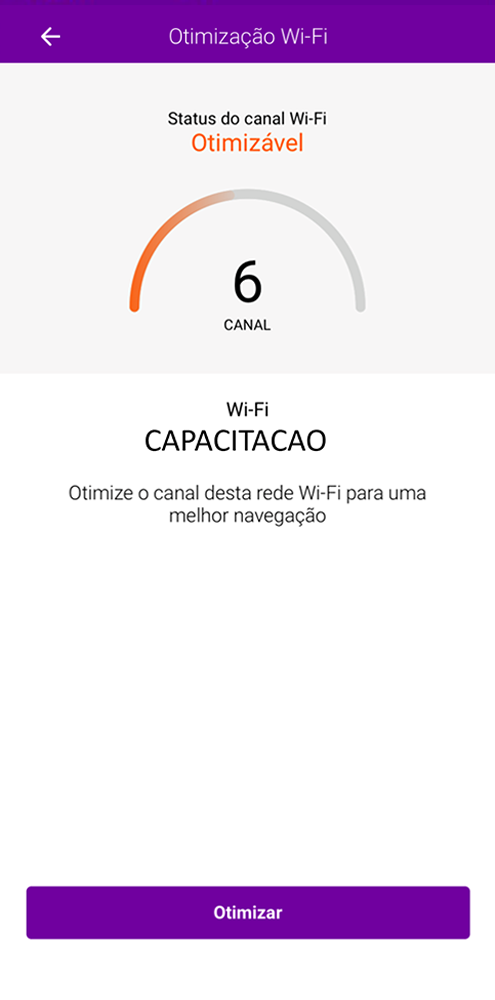
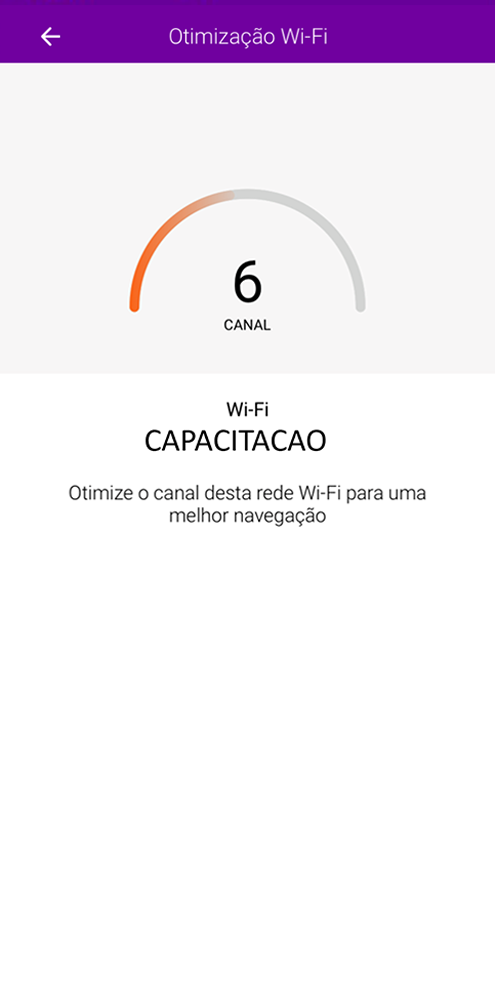
commit ajustes telas 104 à 108.

Changed region(s): [[0.0303, 0.868, 0.9697, 0.961], [0.3333, 0.093, 0.6667, 0.155]]

diff --git a/course/screens/104/tela.js b/course/screens/104/tela.js
@@ -4,11 +4,11 @@ function init() {
   let balao = document.querySelector(".balao.b0");
   let btFecharBalao = document.querySelector(".balao button.fechar");
 
-  let destaques = document.querySelectorAll(".destaque");
+  let destaques = document.querySelectorAll(".foco");
 
   // balloon events
   let showDestaque = (dest) => {
-    destaques[dest].style.display = "block";
+    destaques[dest].classList.add('pulse')
   }
 
   let handleCloseBalloon = (e) => {
@@ -18,7 +18,10 @@ function init() {
     showDestaque(0);
 
     setTimeout(() => {
-      destaques[0].style.display = "none";
+      destaques[0].classList.remove('pulse')
+      destaques[0].style.cssText = 'touch-action: none; pointer-events: none;'
+
+      destaques[1].style.cssText = 'touch-action: unset; pointer-events: unset;'
       showDestaque(1);
     }, 2000);
   }

diff --git a/course/screens/104/tela.html b/course/screens/104/tela.html
@@ -7,14 +7,15 @@
     <div class="mascara_balao">
         <div class="hole abs"></div>
         <div class="balao b0 abs">
-            <p>Se, ao término da análise, for apresentado o status do canal Wi-Fi como: "Otimizável". Clique no botão "Otimizar".</p>
+            <p>Se, ao término da análise, for apresentado o status do canal Wi-Fi como: "Otimizável". Clique no botão
+                "Otimizar".</p>
             <div class="seta cima"></div>
             <button class="fechar pulse"></button>
         </div>
     </div>
 
-    <div class="destaque d0 abs pulse"></div>
-    <div class="destaque d1 abs pulse"></div>
+    <div class="divImg foco f0"></div>
+    <div class="divImg foco f1"></div>
 
     <button id="btn_arrow" class="pulse abs divImg" onclick="screen.next();" alt=""></button>
 </div>

diff --git a/course/screens/108/tela.html b/course/screens/108/tela.html
@@ -7,13 +7,14 @@
     <div class="mascara_balao">
         <div class="hole abs"></div>
         <div class="balao b0 abs">
-            <p>Vamos abrir uma das dicas? Neste exemplo selecionaremos "Causas comuns que interferem em sua conexão Wi-Fi". Clique sobre ela!</p>
+            <p>Vamos abrir uma das dicas? Neste exemplo selecionaremos "Causas comuns que interferem em sua conexão
+                Wi-Fi". Clique sobre ela!</p>
             <div class="seta cima"></div>
             <button class="fechar pulse"></button>
         </div>
     </div>
 
-    <div class="destaque d0 abs pulse"></div>
+    <div class="divImg foco"></div>
 </div>
 
 <!-- Tela Js -->

diff --git a/course/screens/104/tela.css b/course/screens/104/tela.css
@@ -20,19 +20,15 @@
     height: 8%;
 }
 
-.destaque.d0 {
-    display: none;
-    left: 50%;
-    top: 13%;
-    width: 40%;
-    height: 9%;
-    pointer-events: none;
+.foco.f0 {
+    top: 13.2%;
+    width: 14.41rem;
+    background-image: url(img/btn_print_status.png);
 }
 
-.destaque.d1 {
-    display: none;
-    left: 50%;
+.foco.f1 {
     top: 91.3%;
-    width: 88%;
-    height: 8%;
+    touch-action: none;
+    pointer-events: none;
+    background-image: url(img/btn_print_otimizar.png);
 }

diff --git a/course/screens/105/tela.js b/course/screens/105/tela.js
@@ -4,11 +4,11 @@ function init() {
   let balao = document.querySelector(".balao.b0");
   let btFecharBalao = document.querySelector(".balao button.fechar");
 
-  let destaque = document.querySelector(".destaque.d0");
+  let destaque = document.querySelector(".foco");
 
   // balloon events
   let showDestaque = _ => {
-    destaque.style.display = "block";
+    destaque.classList.add('pulse')
 
     setTimeout(() => {
       screen.next();

diff --git a/course/screens/106/tela.js b/course/screens/106/tela.js
@@ -4,11 +4,11 @@ function init() {
   let balao = document.querySelector(".balao.b0");
   let btFecharBalao = document.querySelector(".balao button.fechar");
 
-  let destaque = document.querySelector(".destaque.d0");
+  let destaque = document.querySelector(".foco");
 
   // balloon events
   let showDestaque = _ => {
-    destaque.style.display = "block";
+    destaque.classList.add('pulse')
   }
 
   let handleCloseBalloon = (e) => {

diff --git a/course/screens/107/tela.js b/course/screens/107/tela.js
@@ -4,11 +4,11 @@ function init() {
   let balao = document.querySelector(".balao.b0");
   let btFecharBalao = document.querySelector(".balao button.fechar");
 
-  let destaque = document.querySelector(".destaque.d0");
+  let destaque = document.querySelector(".foco");
 
   // balloon events
   let showDestaque = _ => {
-    destaque.style.display = "block";
+    destaque.classList.add('pulse')
   }
 
   let handleCloseBalloon = (e) => {

diff --git a/course/screens/108/tela.js b/course/screens/108/tela.js
@@ -4,11 +4,11 @@ function init() {
   let balao = document.querySelector(".balao.b0");
   let btFecharBalao = document.querySelector(".balao button.fechar");
 
-  let destaque = document.querySelector(".destaque.d0");
+  let destaque = document.querySelector(".foco");
 
   // balloon events
   let showDestaque = _ => {
-    destaque.style.display = "block";
+    destaque.classList.add('pulse')
   }
 
   let handleCloseBalloon = (e) => {

diff --git a/course/screens/105/tela.css b/course/screens/105/tela.css
@@ -20,11 +20,10 @@
     height: 13%;
 }
 
-.destaque.d0 {
-    display: none;
-    left: 50%;
-    top: 14%;
-    width: 88%;
-    height: 13%;
-    pointer-events: none;
+.foco {
+    top: 14.1%;
+    left: 47%;
+    height: 6.8rem;
+    cursor: default;
+    background-image: url(img/btn_print_wi_fi.png);
 }

diff --git a/course/screens/106/tela.css b/course/screens/106/tela.css
@@ -20,11 +20,10 @@
     height: 5%;
 }
 
-.destaque.d0 {
-    display: none;
-    left: 15%;
+.foco {
     top: 3.5%;
-    width: 13%;
-    height: 5%;
-    border-color: #fff;
+    left: 15.2%;
+    width: 2.7rem;
+    height: 3rem;
+    background-image: url(../../img/btn_print_arrow_back.png);
 }

diff --git a/course/screens/107/tela.css b/course/screens/107/tela.css
@@ -20,10 +20,10 @@
     height: 11%;
 }
 
-.destaque.d0 {
-    display: none;
-    left: 50%;
-    top: 65.2%;
-    width: 86%;
-    height: 11%;
+.foco {
+    top: 65.25%;
+    left: 46.75%;
+    width: 36.9rem;
+    height: 11rem;
+    background-image: url(img/btn_print_wi_fi.png);
 }

diff --git a/course/screens/107/tela.html b/course/screens/107/tela.html
@@ -13,7 +13,7 @@
         </div>
     </div>
 
-    <div class="destaque d0 abs pulse"></div>
+    <div class="divImg foco"></div>
 
     <button id="btn_arrow" class="pulse abs divImg" onclick="screen.next();" alt=""></button>
 </div>
